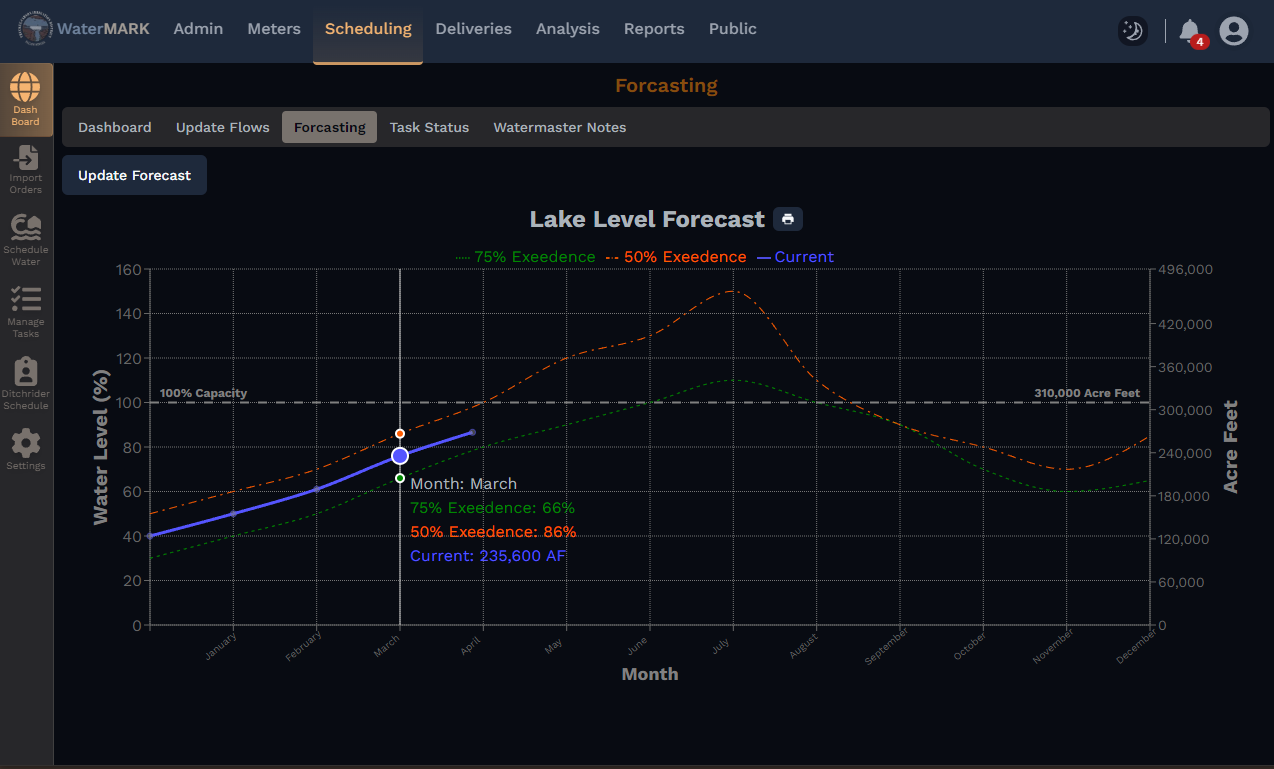
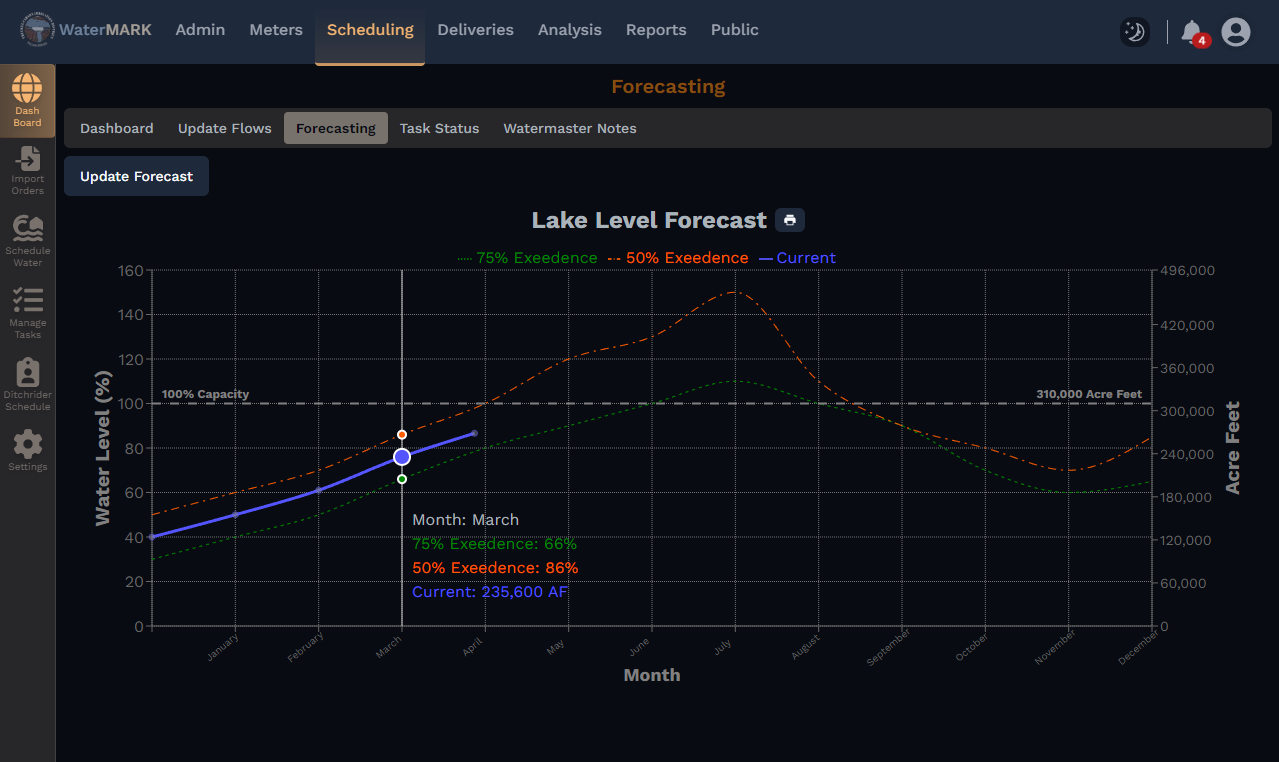
Update Code

diff --git a/app/scheduling/(routes)/page.tsx b/app/scheduling/(routes)/page.tsx
@@ -26,8 +26,8 @@ const Scheduling = () => {
         case "updateflows":
             setHeaderText("Update Flows");
             break;
-        case "forcasting":
-            setHeaderText("Forcasting");
+        case "forecasting":
+            setHeaderText("Forecasting");
             break;
         case "taskstatus":
             setHeaderText("Task Status");
@@ -53,8 +53,8 @@ const Scheduling = () => {
             <TabsTrigger value="updateflows" onClick={() => handleTabClick("updateflows")}>
                 Update Flows
             </TabsTrigger>
-            <TabsTrigger value="forcasting" onClick={() => handleTabClick("forcasting")}>
-                Forcasting
+            <TabsTrigger value="forecasting" onClick={() => handleTabClick("forecasting")}>
+                Forecasting
             </TabsTrigger>
             <TabsTrigger value="taskstatus" onClick={() => handleTabClick("taskstatus")}>
                 Task Status
@@ -80,7 +80,7 @@ const Scheduling = () => {
             <UpdateFlows watermaster />
             </TabsContent>
             <TabsContent 
-                value="forcasting"
+                value="forecasting"
                 className="overflow-y-auto w-full"
             >   
                 <Drawer>
